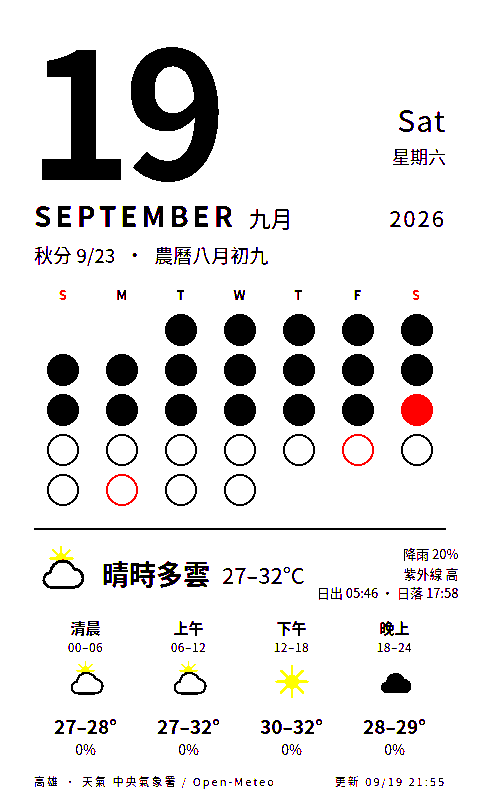
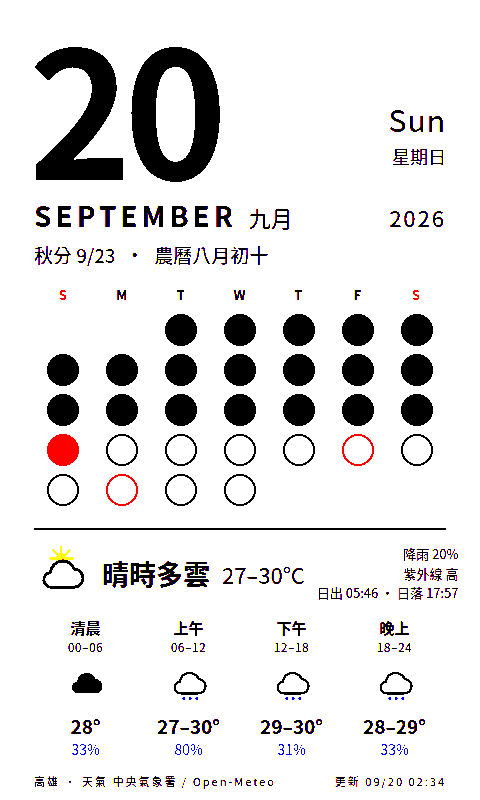
deploy: cf7d1051eb6821bc691ba0ade4beb12cdf9fe0ef

diff --git a/calendar.html b/calendar.html
@@ -47,16 +47,16 @@
 </style></head>
 <body><div class="page">
   <div class="head">
-    <div class="num">19</div>
-    <div class="wd"><div class="en">Sat</div><div class="zh">星期六</div></div>
+    <div class="num">20</div>
+    <div class="wd"><div class="en">Sun</div><div class="zh">星期日</div></div>
   </div>
   <div class="month"><span class="en">SEPTEMBER</span><span class="zh">九月</span><span class="yr">2026</span></div>
-  <div class="today"><span class="lunar">秋分 9/23</span><span>·</span><span class="lunar">農曆八月初九</span></div>
-  <div class="grid"><div class="h we">S</div><div class="h">M</div><div class="h">T</div><div class="h">W</div><div class="h">T</div><div class="h">F</div><div class="h we">S</div><div class="dot empty"></div><div class="dot empty"></div><div class="dot past" title="1"></div><div class="dot past" title="2"></div><div class="dot past" title="3"></div><div class="dot past" title="4"></div><div class="dot past" title="5"></div><div class="dot past" title="6"></div><div class="dot past" title="7"></div><div class="dot past" title="8"></div><div class="dot past" title="9"></div><div class="dot past" title="10"></div><div class="dot past" title="11"></div><div class="dot past" title="12"></div><div class="dot past" title="13"></div><div class="dot past" title="14"></div><div class="dot past" title="15"></div><div class="dot past" title="16"></div><div class="dot past" title="17"></div><div class="dot past" title="18"></div><div class="dot now" title="19"></div><div class="dot future" title="20"></div><div class="dot future" title="21"></div><div class="dot future" title="22"></div><div class="dot future" title="23"></div><div class="dot future" title="24"></div><div class="dot future hol" title="25"></div><div class="dot future" title="26"></div><div class="dot future" title="27"></div><div class="dot future hol" title="28"></div><div class="dot future" title="29"></div><div class="dot future" title="30"></div></div>
+  <div class="today"><span class="lunar">秋分 9/23</span><span>·</span><span class="lunar">農曆八月初十</span></div>
+  <div class="grid"><div class="h we">S</div><div class="h">M</div><div class="h">T</div><div class="h">W</div><div class="h">T</div><div class="h">F</div><div class="h we">S</div><div class="dot empty"></div><div class="dot empty"></div><div class="dot past" title="1"></div><div class="dot past" title="2"></div><div class="dot past" title="3"></div><div class="dot past" title="4"></div><div class="dot past" title="5"></div><div class="dot past" title="6"></div><div class="dot past" title="7"></div><div class="dot past" title="8"></div><div class="dot past" title="9"></div><div class="dot past" title="10"></div><div class="dot past" title="11"></div><div class="dot past" title="12"></div><div class="dot past" title="13"></div><div class="dot past" title="14"></div><div class="dot past" title="15"></div><div class="dot past" title="16"></div><div class="dot past" title="17"></div><div class="dot past" title="18"></div><div class="dot past" title="19"></div><div class="dot now" title="20"></div><div class="dot future" title="21"></div><div class="dot future" title="22"></div><div class="dot future" title="23"></div><div class="dot future" title="24"></div><div class="dot future hol" title="25"></div><div class="dot future" title="26"></div><div class="dot future" title="27"></div><div class="dot future hol" title="28"></div><div class="dot future" title="29"></div><div class="dot future" title="30"></div></div>
   <div class="wx"><div class="line">
-    <div class="wxhead"><svg viewBox="0 0 64 68" xmlns="http://www.w3.org/2000/svg"><g transform="translate(12 -4) scale(.6)"><circle cx="32" cy="32" r="11" fill="#f5c400"/><g stroke="#f5c400" stroke-width="4" stroke-linecap="round"><line x1="32" y1="32" x2="32" y2="8" transform="rotate(0 32 32)"/><line x1="32" y1="32" x2="32" y2="8" transform="rotate(45 32 32)"/><line x1="32" y1="32" x2="32" y2="8" transform="rotate(90 32 32)"/><line x1="32" y1="32" x2="32" y2="8" transform="rotate(135 32 32)"/><line x1="32" y1="32" x2="32" y2="8" transform="rotate(180 32 32)"/><line x1="32" y1="32" x2="32" y2="8" transform="rotate(225 32 32)"/><line x1="32" y1="32" x2="32" y2="8" transform="rotate(270 32 32)"/><line x1="32" y1="32" x2="32" y2="8" transform="rotate(315 32 32)"/></g></g><path d="M20 50h26a11 11 0 0 0 1-22 15 15 0 0 0-29 4 9 9 0 0 0 2 18z" fill="#fff" stroke="#000" stroke-width="3.5" stroke-linejoin="round"/></svg><span class="desc">晴時多雲</span><span class="temp">27–32°C</span>
-      <div class="meta">降雨 20%<br>紫外線 高<br>日出 05:46 · 日落 17:58</div></div>
-    <div class="slots"><div class="slot"><div class="n">清晨</div><div class="hrs">00–06</div><svg viewBox="0 0 64 68" xmlns="http://www.w3.org/2000/svg"><g transform="translate(12 -4) scale(.6)"><circle cx="32" cy="32" r="11" fill="#f5c400"/><g stroke="#f5c400" stroke-width="4" stroke-linecap="round"><line x1="32" y1="32" x2="32" y2="8" transform="rotate(0 32 32)"/><line x1="32" y1="32" x2="32" y2="8" transform="rotate(45 32 32)"/><line x1="32" y1="32" x2="32" y2="8" transform="rotate(90 32 32)"/><line x1="32" y1="32" x2="32" y2="8" transform="rotate(135 32 32)"/><line x1="32" y1="32" x2="32" y2="8" transform="rotate(180 32 32)"/><line x1="32" y1="32" x2="32" y2="8" transform="rotate(225 32 32)"/><line x1="32" y1="32" x2="32" y2="8" transform="rotate(270 32 32)"/><line x1="32" y1="32" x2="32" y2="8" transform="rotate(315 32 32)"/></g></g><path d="M20 50h26a11 11 0 0 0 1-22 15 15 0 0 0-29 4 9 9 0 0 0 2 18z" fill="#fff" stroke="#000" stroke-width="3.5" stroke-linejoin="round"/></svg><div class="t">27–28°</div><div class="p dry">0%</div></div><div class="slot"><div class="n">上午</div><div class="hrs">06–12</div><svg viewBox="0 0 64 68" xmlns="http://www.w3.org/2000/svg"><g transform="translate(12 -4) scale(.6)"><circle cx="32" cy="32" r="11" fill="#f5c400"/><g stroke="#f5c400" stroke-width="4" stroke-linecap="round"><line x1="32" y1="32" x2="32" y2="8" transform="rotate(0 32 32)"/><line x1="32" y1="32" x2="32" y2="8" transform="rotate(45 32 32)"/><line x1="32" y1="32" x2="32" y2="8" transform="rotate(90 32 32)"/><line x1="32" y1="32" x2="32" y2="8" transform="rotate(135 32 32)"/><line x1="32" y1="32" x2="32" y2="8" transform="rotate(180 32 32)"/><line x1="32" y1="32" x2="32" y2="8" transform="rotate(225 32 32)"/><line x1="32" y1="32" x2="32" y2="8" transform="rotate(270 32 32)"/><line x1="32" y1="32" x2="32" y2="8" transform="rotate(315 32 32)"/></g></g><path d="M20 50h26a11 11 0 0 0 1-22 15 15 0 0 0-29 4 9 9 0 0 0 2 18z" fill="#fff" stroke="#000" stroke-width="3.5" stroke-linejoin="round"/></svg><div class="t">27–32°</div><div class="p dry">0%</div></div><div class="slot"><div class="n">下午</div><div class="hrs">12–18</div><svg viewBox="0 0 64 68" xmlns="http://www.w3.org/2000/svg"><circle cx="32" cy="32" r="11" fill="#f5c400"/><g stroke="#f5c400" stroke-width="4" stroke-linecap="round"><line x1="32" y1="32" x2="32" y2="8" transform="rotate(0 32 32)"/><line x1="32" y1="32" x2="32" y2="8" transform="rotate(45 32 32)"/><line x1="32" y1="32" x2="32" y2="8" transform="rotate(90 32 32)"/><line x1="32" y1="32" x2="32" y2="8" transform="rotate(135 32 32)"/><line x1="32" y1="32" x2="32" y2="8" transform="rotate(180 32 32)"/><line x1="32" y1="32" x2="32" y2="8" transform="rotate(225 32 32)"/><line x1="32" y1="32" x2="32" y2="8" transform="rotate(270 32 32)"/><line x1="32" y1="32" x2="32" y2="8" transform="rotate(315 32 32)"/></g></svg><div class="t">30–32°</div><div class="p dry">0%</div></div><div class="slot"><div class="n">晚上</div><div class="hrs">18–24</div><svg viewBox="0 0 64 68" xmlns="http://www.w3.org/2000/svg"><path d="M20 50h26a11 11 0 0 0 1-22 15 15 0 0 0-29 4 9 9 0 0 0 2 18z" fill="#000"/></svg><div class="t">28–29°</div><div class="p dry">0%</div></div></div>
+    <div class="wxhead"><svg viewBox="0 0 64 68" xmlns="http://www.w3.org/2000/svg"><g transform="translate(12 -4) scale(.6)"><circle cx="32" cy="32" r="11" fill="#f5c400"/><g stroke="#f5c400" stroke-width="4" stroke-linecap="round"><line x1="32" y1="32" x2="32" y2="8" transform="rotate(0 32 32)"/><line x1="32" y1="32" x2="32" y2="8" transform="rotate(45 32 32)"/><line x1="32" y1="32" x2="32" y2="8" transform="rotate(90 32 32)"/><line x1="32" y1="32" x2="32" y2="8" transform="rotate(135 32 32)"/><line x1="32" y1="32" x2="32" y2="8" transform="rotate(180 32 32)"/><line x1="32" y1="32" x2="32" y2="8" transform="rotate(225 32 32)"/><line x1="32" y1="32" x2="32" y2="8" transform="rotate(270 32 32)"/><line x1="32" y1="32" x2="32" y2="8" transform="rotate(315 32 32)"/></g></g><path d="M20 50h26a11 11 0 0 0 1-22 15 15 0 0 0-29 4 9 9 0 0 0 2 18z" fill="#fff" stroke="#000" stroke-width="3.5" stroke-linejoin="round"/></svg><span class="desc">晴時多雲</span><span class="temp">27–30°C</span>
+      <div class="meta">降雨 20%<br>紫外線 高<br>日出 05:46 · 日落 17:57</div></div>
+    <div class="slots"><div class="slot"><div class="n">清晨</div><div class="hrs">00–06</div><svg viewBox="0 0 64 68" xmlns="http://www.w3.org/2000/svg"><path d="M20 50h26a11 11 0 0 0 1-22 15 15 0 0 0-29 4 9 9 0 0 0 2 18z" fill="#000"/></svg><div class="t">28°</div><div class="p ">33%</div></div><div class="slot"><div class="n">上午</div><div class="hrs">06–12</div><svg viewBox="0 0 64 68" xmlns="http://www.w3.org/2000/svg"><path d="M20 50h26a11 11 0 0 0 1-22 15 15 0 0 0-29 4 9 9 0 0 0 2 18z" fill="#fff" stroke="#000" stroke-width="3.5" stroke-linejoin="round"/><g fill="#0040ff"><circle cx="24" cy="58" r="2.2"/><circle cx="34" cy="58" r="2.2"/><circle cx="44" cy="58" r="2.2"/></g></svg><div class="t">27–30°</div><div class="p ">80%</div></div><div class="slot"><div class="n">下午</div><div class="hrs">12–18</div><svg viewBox="0 0 64 68" xmlns="http://www.w3.org/2000/svg"><path d="M20 50h26a11 11 0 0 0 1-22 15 15 0 0 0-29 4 9 9 0 0 0 2 18z" fill="#fff" stroke="#000" stroke-width="3.5" stroke-linejoin="round"/><g fill="#0040ff"><circle cx="24" cy="58" r="2.2"/><circle cx="34" cy="58" r="2.2"/><circle cx="44" cy="58" r="2.2"/></g></svg><div class="t">29–30°</div><div class="p ">31%</div></div><div class="slot"><div class="n">晚上</div><div class="hrs">18–24</div><svg viewBox="0 0 64 68" xmlns="http://www.w3.org/2000/svg"><path d="M20 50h26a11 11 0 0 0 1-22 15 15 0 0 0-29 4 9 9 0 0 0 2 18z" fill="#fff" stroke="#000" stroke-width="3.5" stroke-linejoin="round"/><g fill="#0040ff"><circle cx="24" cy="58" r="2.2"/><circle cx="34" cy="58" r="2.2"/><circle cx="44" cy="58" r="2.2"/></g></svg><div class="t">28–29°</div><div class="p ">33%</div></div></div>
   </div></div>
-  <div class="foot"><span>高雄 · 天氣 中央氣象署 / Open-Meteo</span><span>更新 09/19 21:55</span></div>
+  <div class="foot"><span>高雄 · 天氣 中央氣象署 / Open-Meteo</span><span>更新 09/20 02:34</span></div>
 </div></body></html>
